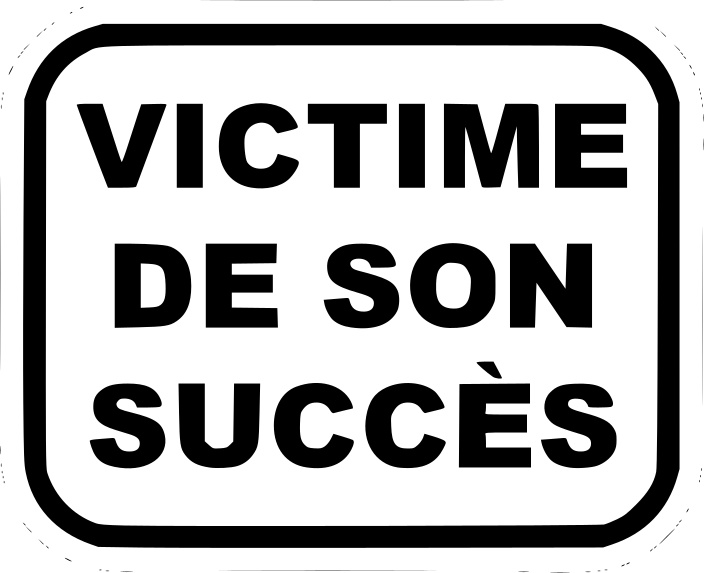
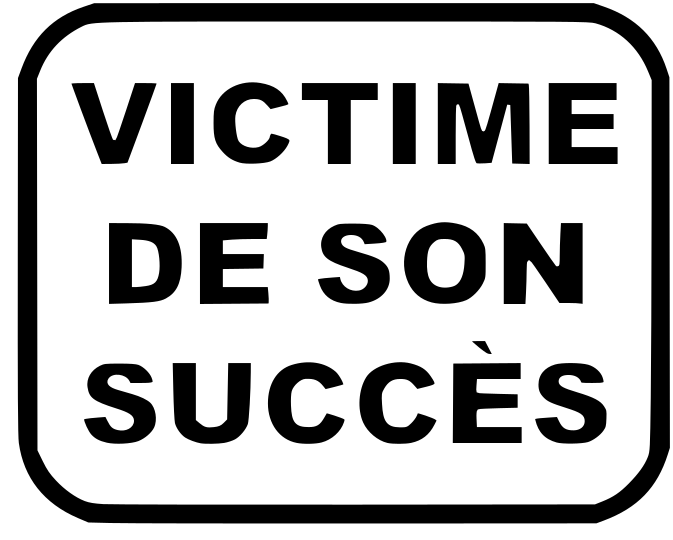
change png + petite refacto

diff --git a/src/app/pages/produits/produits.page.ts b/src/app/pages/produits/produits.page.ts
@@ -43,7 +43,7 @@ export class ProduitsPage implements OnInit {
 
   calculNewPrice() {
     for (let produit of this.produits) {
-      if (produit.discount && produit.discount > 0) {
+      if (produit.sale) {
         produit['newPrice'] =
           produit.price - (produit.price * produit.discount) / 100;
       } else {
